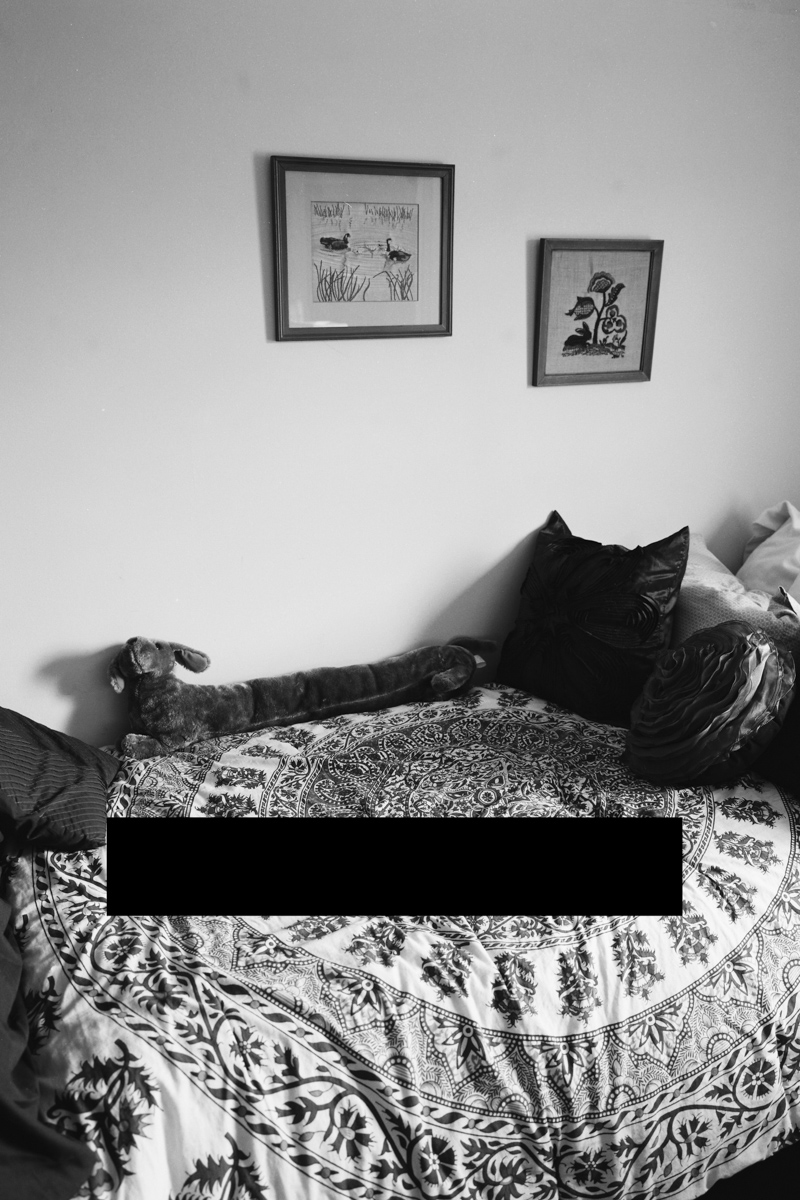
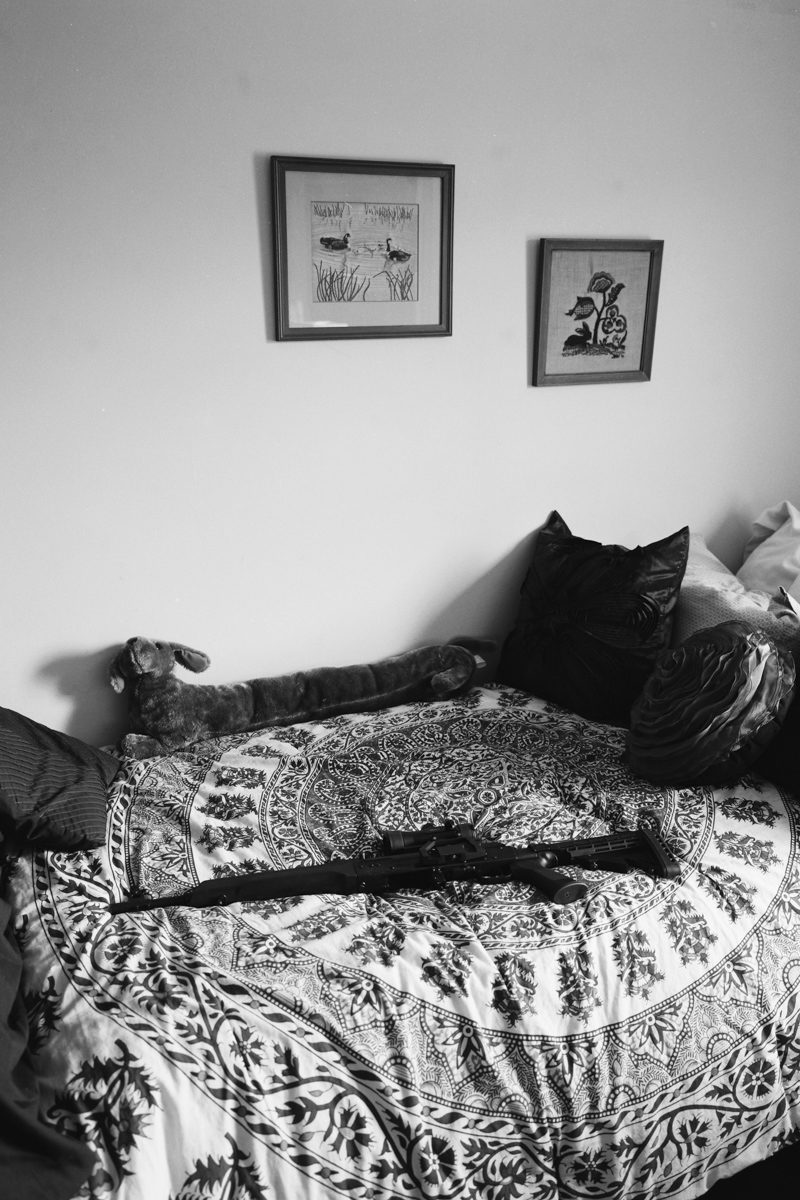
separated PA public and private

Changed region(s): [[0.125, 0.6783, 0.875, 0.7708]]

diff --git a/pages/private_2021.html b/pages/private_2021.html
@@ -232,13 +232,9 @@
                 <img src="http://tannerwhitney.github.io/photos/2021_pa_film-29.jpg"/>
               </div>
 
-              <!--WITHHELD ON PUBLIC PAGE
-
               <div class="pb4 w-50-ns w-90">
                 <img src="http://tannerwhitney.github.io/photos/2021_pa_film-30.jpg"/>
               </div>
-
-            -->
 
               <div class="pb4 w-50-ns w-90">
                 <img src="http://tannerwhitney.github.io/photos/2021_pa_film-31.jpg"/>
